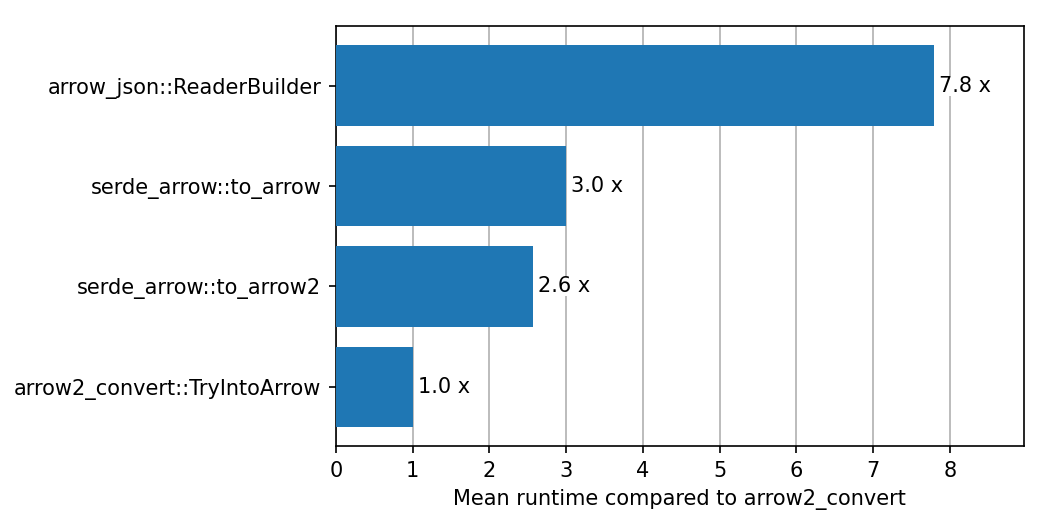
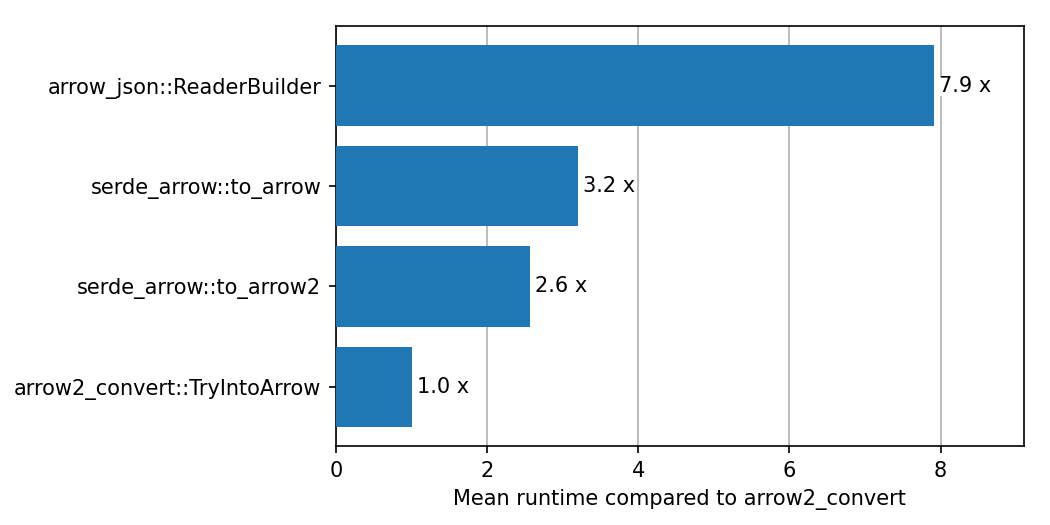
Update benchmarks

diff --git a/Readme.md b/Readme.md
@@ -155,37 +155,37 @@ The detailed runtimes of the [benchmarks](./serde_arrow/benches/groups/) are lis
 
 | label                        | time [ms] | arrow2_convert: | serde_arrow::to | serde_arrow::to | arrow_json::Rea |
 |------------------------------|-----------|-----------------|-----------------|-----------------|-----------------|
-| arrow2_convert::TryIntoArrow |     54.01 |            1.00 |            0.31 |            0.30 |            0.14 |
-| serde_arrow::to_arrow2       |    173.84 |            3.22 |            1.00 |            0.98 |            0.46 |
-| serde_arrow::to_arrow        |    177.92 |            3.29 |            1.02 |            1.00 |            0.47 |
-| arrow_json::ReaderBuilder    |    378.48 |            7.01 |            2.18 |            2.13 |            1.00 |
+| arrow2_convert::TryIntoArrow |     52.56 |            1.00 |            0.32 |            0.29 |            0.14 |
+| serde_arrow::to_arrow2       |    165.91 |            3.16 |            1.00 |            0.93 |            0.45 |
+| serde_arrow::to_arrow        |    178.21 |            3.39 |            1.07 |            1.00 |            0.48 |
+| arrow_json::ReaderBuilder    |    369.23 |            7.02 |            2.23 |            2.07 |            1.00 |
 
 ### complex_common_serialize(1000000)
 
 | label                        | time [ms] | arrow2_convert: | serde_arrow::to | serde_arrow::to | arrow_json::Rea |
 |------------------------------|-----------|-----------------|-----------------|-----------------|-----------------|
-| arrow2_convert::TryIntoArrow |    576.81 |            1.00 |            0.34 |            0.33 |            0.16 |
-| serde_arrow::to_arrow2       |   1701.46 |            2.95 |            1.00 |            0.97 |            0.46 |
-| serde_arrow::to_arrow        |   1748.89 |            3.03 |            1.03 |            1.00 |            0.48 |
-| arrow_json::ReaderBuilder    |   3676.51 |            6.37 |            2.16 |            2.10 |            1.00 |
+| arrow2_convert::TryIntoArrow |    542.41 |            1.00 |            0.32 |            0.29 |            0.15 |
+| serde_arrow::to_arrow2       |   1695.42 |            3.13 |            1.00 |            0.90 |            0.47 |
+| serde_arrow::to_arrow        |   1880.89 |            3.47 |            1.11 |            1.00 |            0.53 |
+| arrow_json::ReaderBuilder    |   3582.51 |            6.60 |            2.11 |            1.90 |            1.00 |
 
 ### primitives_serialize(100000)
 
 | label                        | time [ms] | arrow2_convert: | serde_arrow::to | serde_arrow::to | arrow_json::Rea |
 |------------------------------|-----------|-----------------|-----------------|-----------------|-----------------|
-| arrow2_convert::TryIntoArrow |     15.83 |            1.00 |            0.51 |            0.36 |            0.12 |
-| serde_arrow::to_arrow2       |     30.90 |            1.95 |            1.00 |            0.70 |            0.23 |
-| serde_arrow::to_arrow        |     43.96 |            2.78 |            1.42 |            1.00 |            0.33 |
-| arrow_json::ReaderBuilder    |    133.97 |            8.46 |            4.34 |            3.05 |            1.00 |
+| arrow2_convert::TryIntoArrow |     14.87 |            1.00 |            0.49 |            0.32 |            0.11 |
+| serde_arrow::to_arrow2       |     30.62 |            2.06 |            1.00 |            0.67 |            0.22 |
+| serde_arrow::to_arrow        |     45.84 |            3.08 |            1.50 |            1.00 |            0.33 |
+| arrow_json::ReaderBuilder    |    138.93 |            9.34 |            4.54 |            3.03 |            1.00 |
 
 ### primitives_serialize(1000000)
 
 | label                        | time [ms] | arrow2_convert: | serde_arrow::to | serde_arrow::to | arrow_json::Rea |
 |------------------------------|-----------|-----------------|-----------------|-----------------|-----------------|
-| arrow2_convert::TryIntoArrow |    153.07 |            1.00 |            0.47 |            0.35 |            0.11 |
-| serde_arrow::to_arrow2       |    327.32 |            2.14 |            1.00 |            0.74 |            0.23 |
-| serde_arrow::to_arrow        |    440.39 |            2.88 |            1.35 |            1.00 |            0.31 |
-| arrow_json::ReaderBuilder    |   1429.31 |            9.34 |            4.37 |            3.25 |            1.00 |
+| arrow2_convert::TryIntoArrow |    159.80 |            1.00 |            0.51 |            0.35 |            0.12 |
+| serde_arrow::to_arrow2       |    310.31 |            1.94 |            1.00 |            0.68 |            0.22 |
+| serde_arrow::to_arrow        |    457.41 |            2.86 |            1.47 |            1.00 |            0.33 |
+| arrow_json::ReaderBuilder    |   1387.36 |            8.68 |            4.47 |            3.03 |            1.00 |
 
 <!-- end:benchmarks -->
 
